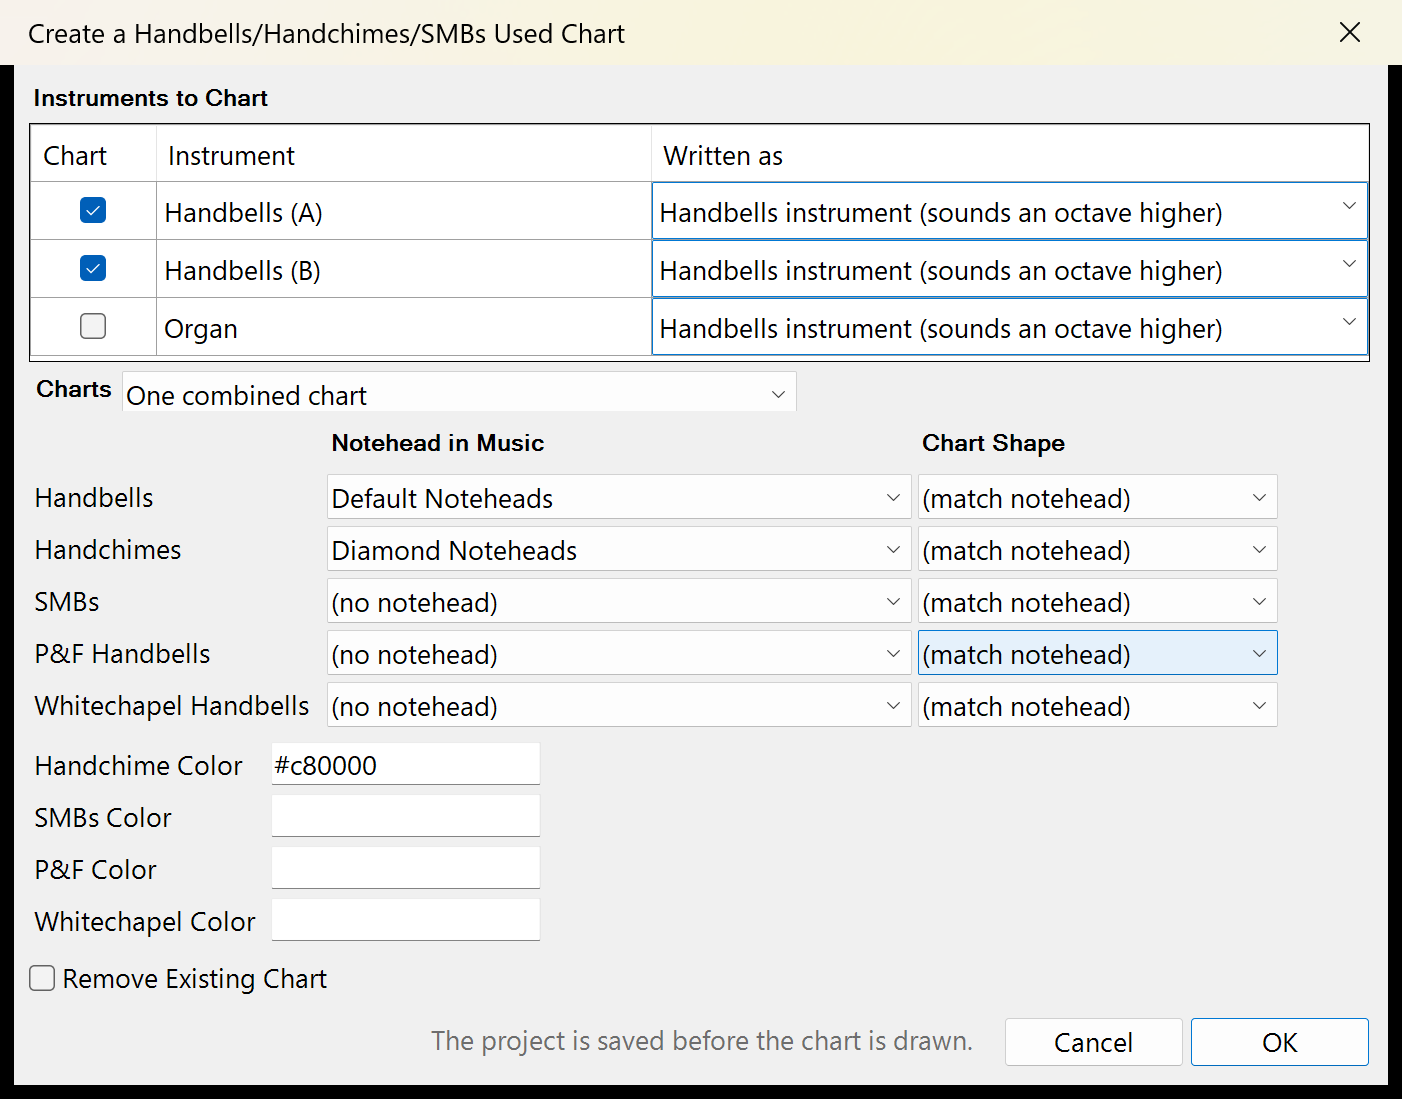
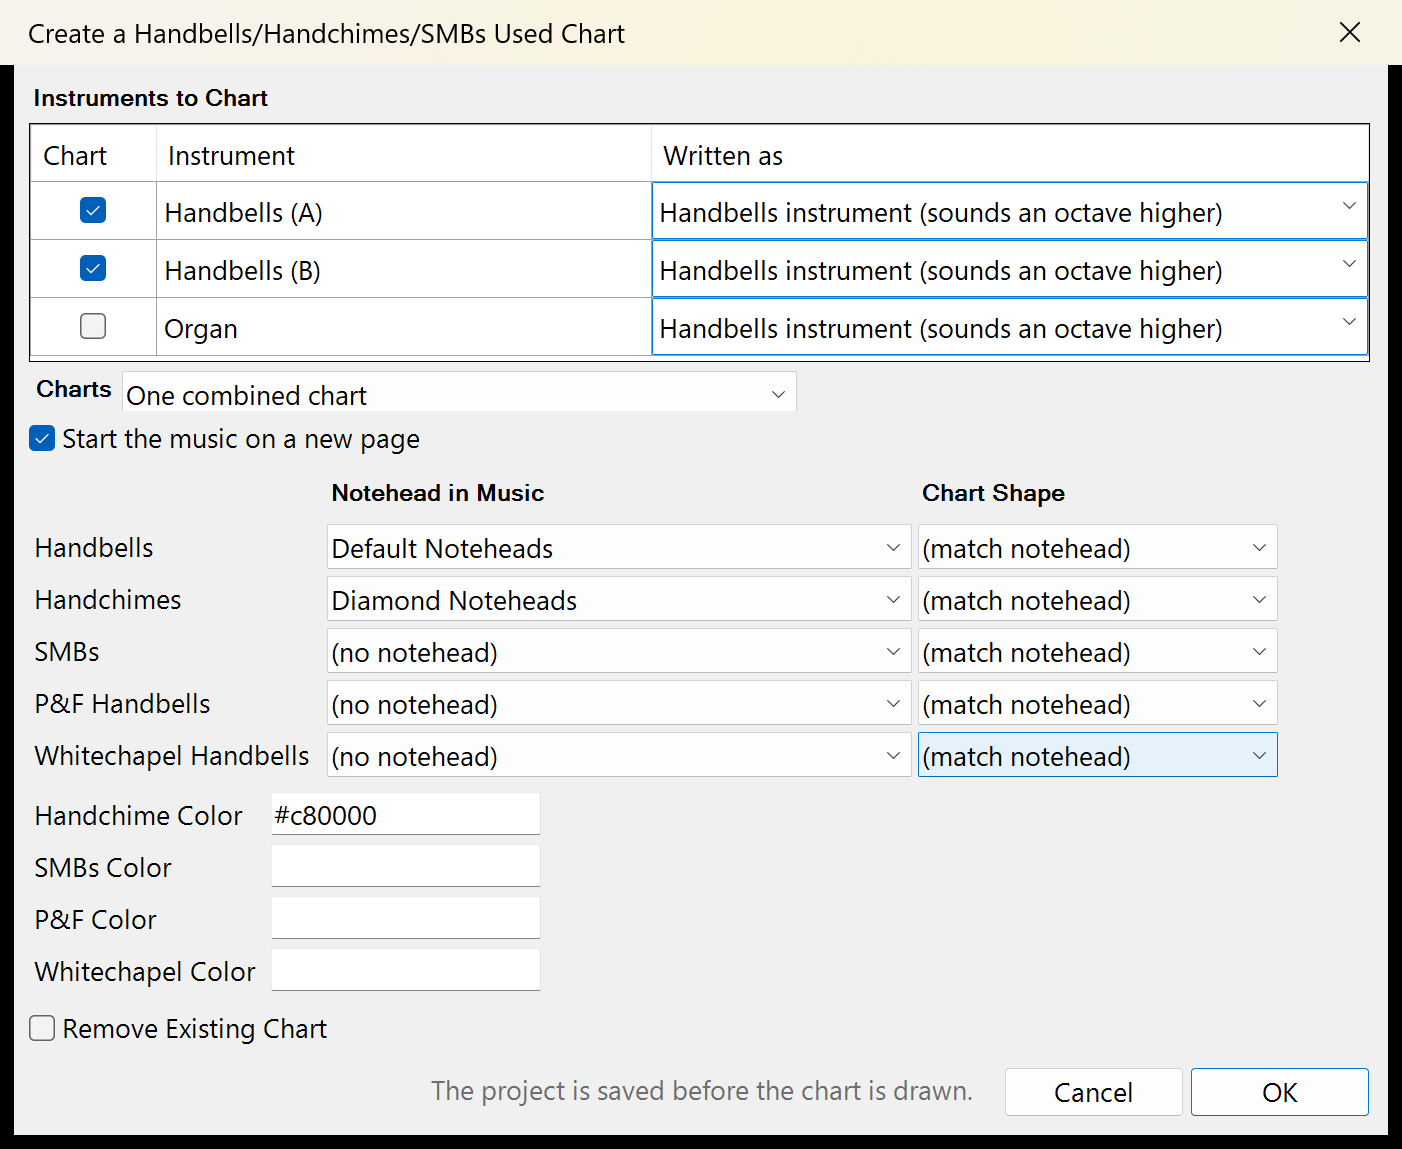
fix: tell the flow-break settings apart with a probe text
The run found a project's own flowBreakBehaviour by comparing text exports under each value, but those exports can
be identical: on the fixture with a chart drawn, all 14 rows with a page were the same both ways. Two changes make
the difference show:

- A temporary text at the start of the first music flow (constants.PAGE_PROBE), deleted again straight after, so
  the export always has a row that says where the music starts.
- The check runs while the chart flow is empty. For a new chart it already did; for a chart with a version 1
  marker it now runs just after the old chart is cleared, since a drawn chart can fill page 1 and then both values
  put the music on page 2.

The old-marker case now finds the marker through the dump (an event's text isn't readable from stream.events), and
the chart checks confirm the probe text is gone. The same-page test charts one instrument, so its picture shows the
music following the chart. images/dialog.png is retaken and shows the new checkbox.

diff --git a/tests/dorico/test_write.py b/tests/dorico/test_write.py
@@ -41,7 +41,9 @@ class WriteTests(unittest.TestCase):
             harness.capture(client, IMAGES / "combined.png")
 
     def test_the_music_can_follow_the_chart_on_its_page(self):
-        with harness.scratch(self, "case_write.lua", args={"mode": "combined", "newPage": False}) as (client, result):
+        # one instrument, so the chart leaves room on page 1 for the music to follow it
+        with harness.scratch(self, "case_write.lua", args={"mode": "combined", "newPage": False,
+                                                           "instruments": ["Handbells (A)"]}) as (client, result):
             facts = result["facts"]
             self.assertEqual(facts["restore"]["flowBreakBehaviour"], "kStartNewPageForFlows", "the project's own")
             self.check_options(client, facts, breaks="kNoFlowBreaks")

diff --git a/docs/dorico-lua-guide.md b/docs/dorico-lua-guide.md
@@ -257,8 +257,10 @@ plug-in uses it for four things Lua can't read:
   headings show, so the candidate whose rows match the first export is the value the project had. Put that value
   back afterwards. (With a single flow, two of the three values look the same, so this needs two or more flows.)
   `flowBreakBehaviour` works the same way with every row's `Page`: under `kNoFlowBreaks` a second flow's items move
-  up onto the first flow's page. When the two exports are identical, nothing tells them apart, so assume Dorico's
-  default, `kStartNewPageForFlows`.
+  up onto the first flow's page. Music with no texts may export nothing that moves, so put a temporary text at the
+  start of the second flow (`stream:createText`, then `stream:delete` on the event it returns), and run the check
+  while the first flow is short: if it fills its page, both values start the second flow on a new page. When the
+  exports are still identical, nothing tells the values apart, so assume Dorico's default, `kStartNewPageForFlows`.
 
 Quirks:
 
